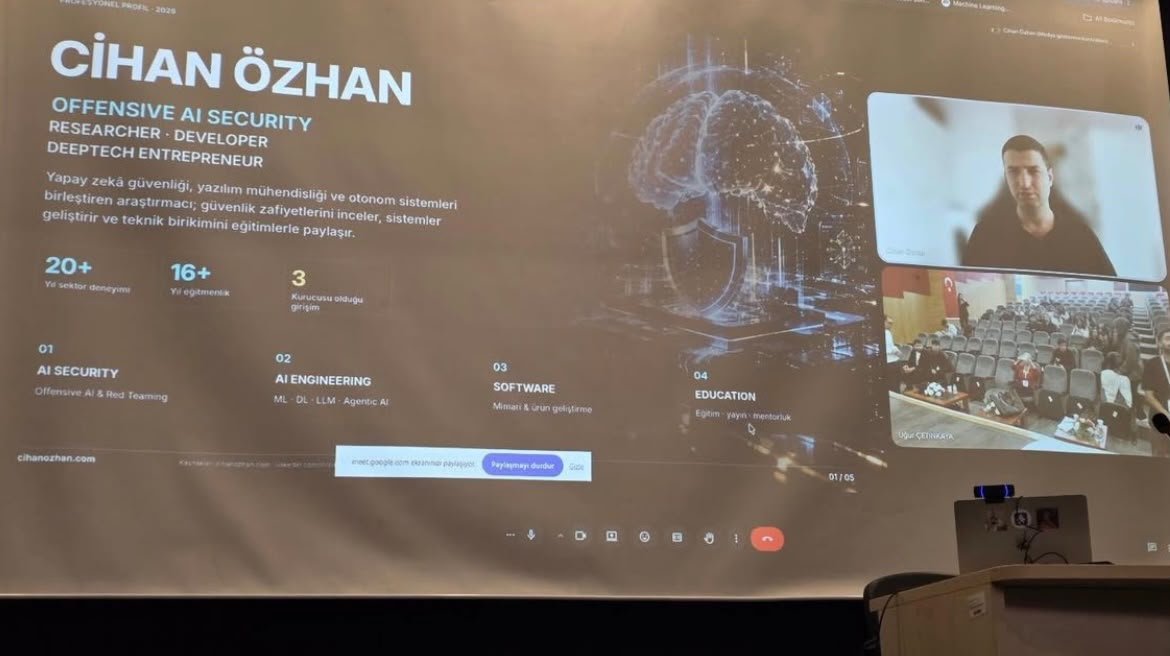
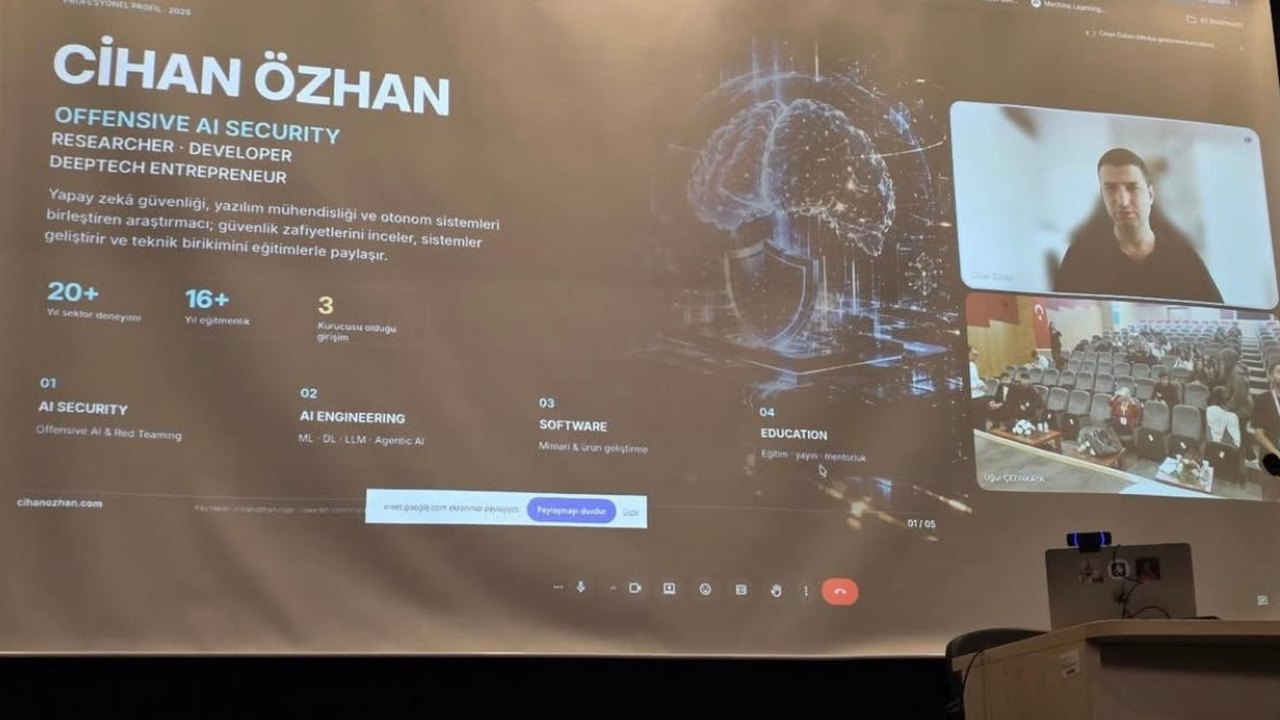
Galeriye iki fotoğraf ekle, tüm fotoğrafları 16:9 boyutuna eşitle
Emrullah Keser'in slayt fotoğrafı yerine kürsüden fotoğrafı konuldu, salon
fotoğrafı eklendi. Tüm kareler 1280x720'ye getirildi, büyütme penceresinde
çerçeve sabit. Konuşmacı adları afişe göre eklendi.

Claude-Session: https://claude.ai/code/session_01NLj55b9ykhBQRbArkPoZpr

diff --git a/assets/style.css b/assets/style.css
@@ -217,7 +217,7 @@ h2 { margin-bottom: 0; font-family: var(--display); font-size: clamp(36px, 5vw, 
 .lightbox[open] { display: grid; grid-template-columns: auto minmax(0, 1fr) auto; align-items: center; gap: 8px; }
 .lightbox::backdrop { background: rgb(4 2 10 / 90%); backdrop-filter: blur(4px); }
 .lightbox-figure { margin: 0; text-align: center; }
-.lightbox-img { display: block; max-width: 100%; max-height: 78vh; margin: 0 auto; object-fit: contain; }
+.lightbox-img { display: block; width: min(100%, 138vh); aspect-ratio: 16 / 9; margin: 0 auto; object-fit: contain; background: #000; }
 .lightbox-caption { margin-top: 12px; color: rgb(255 255 255 / 80%); font-size: 14px; line-height: 1.5; }
 .lightbox-nav, .lightbox-close { width: 44px; height: 44px; border: 0; color: #fff; background: rgb(255 255 255 / 10%); font-size: 28px; line-height: 1; cursor: pointer; }
 .lightbox-nav:hover, .lightbox-close:hover { background: rgb(255 255 255 / 20%); }
